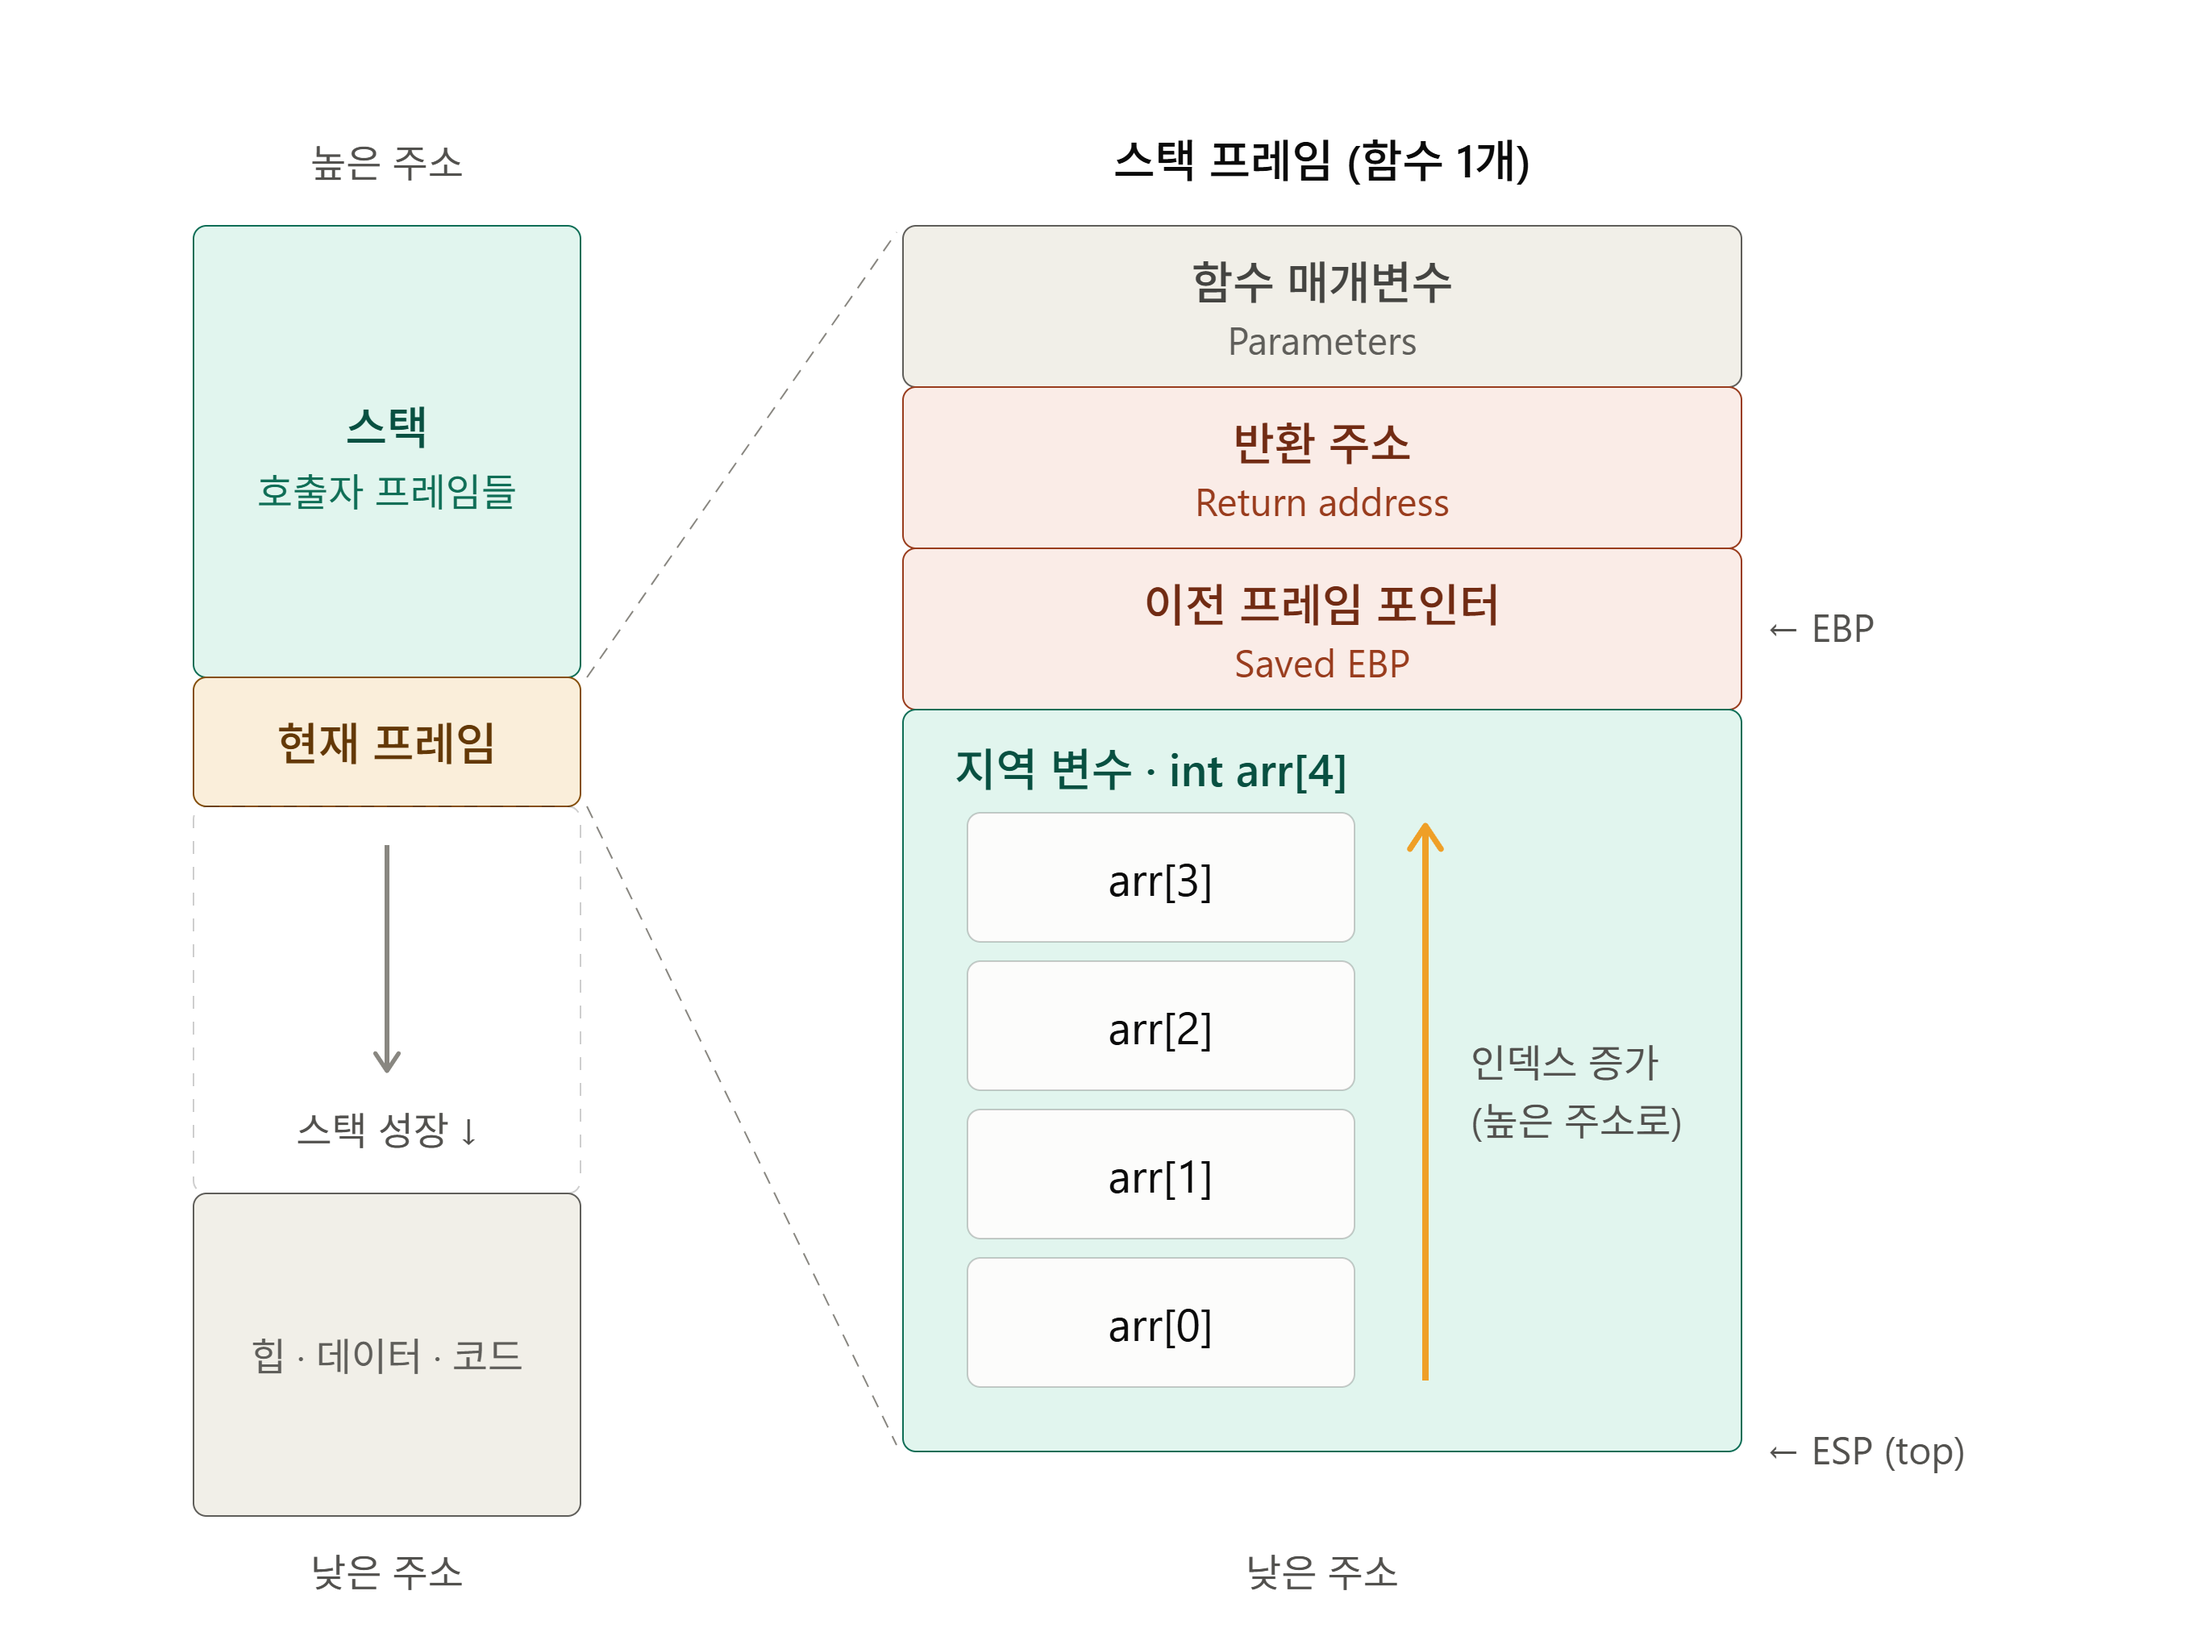
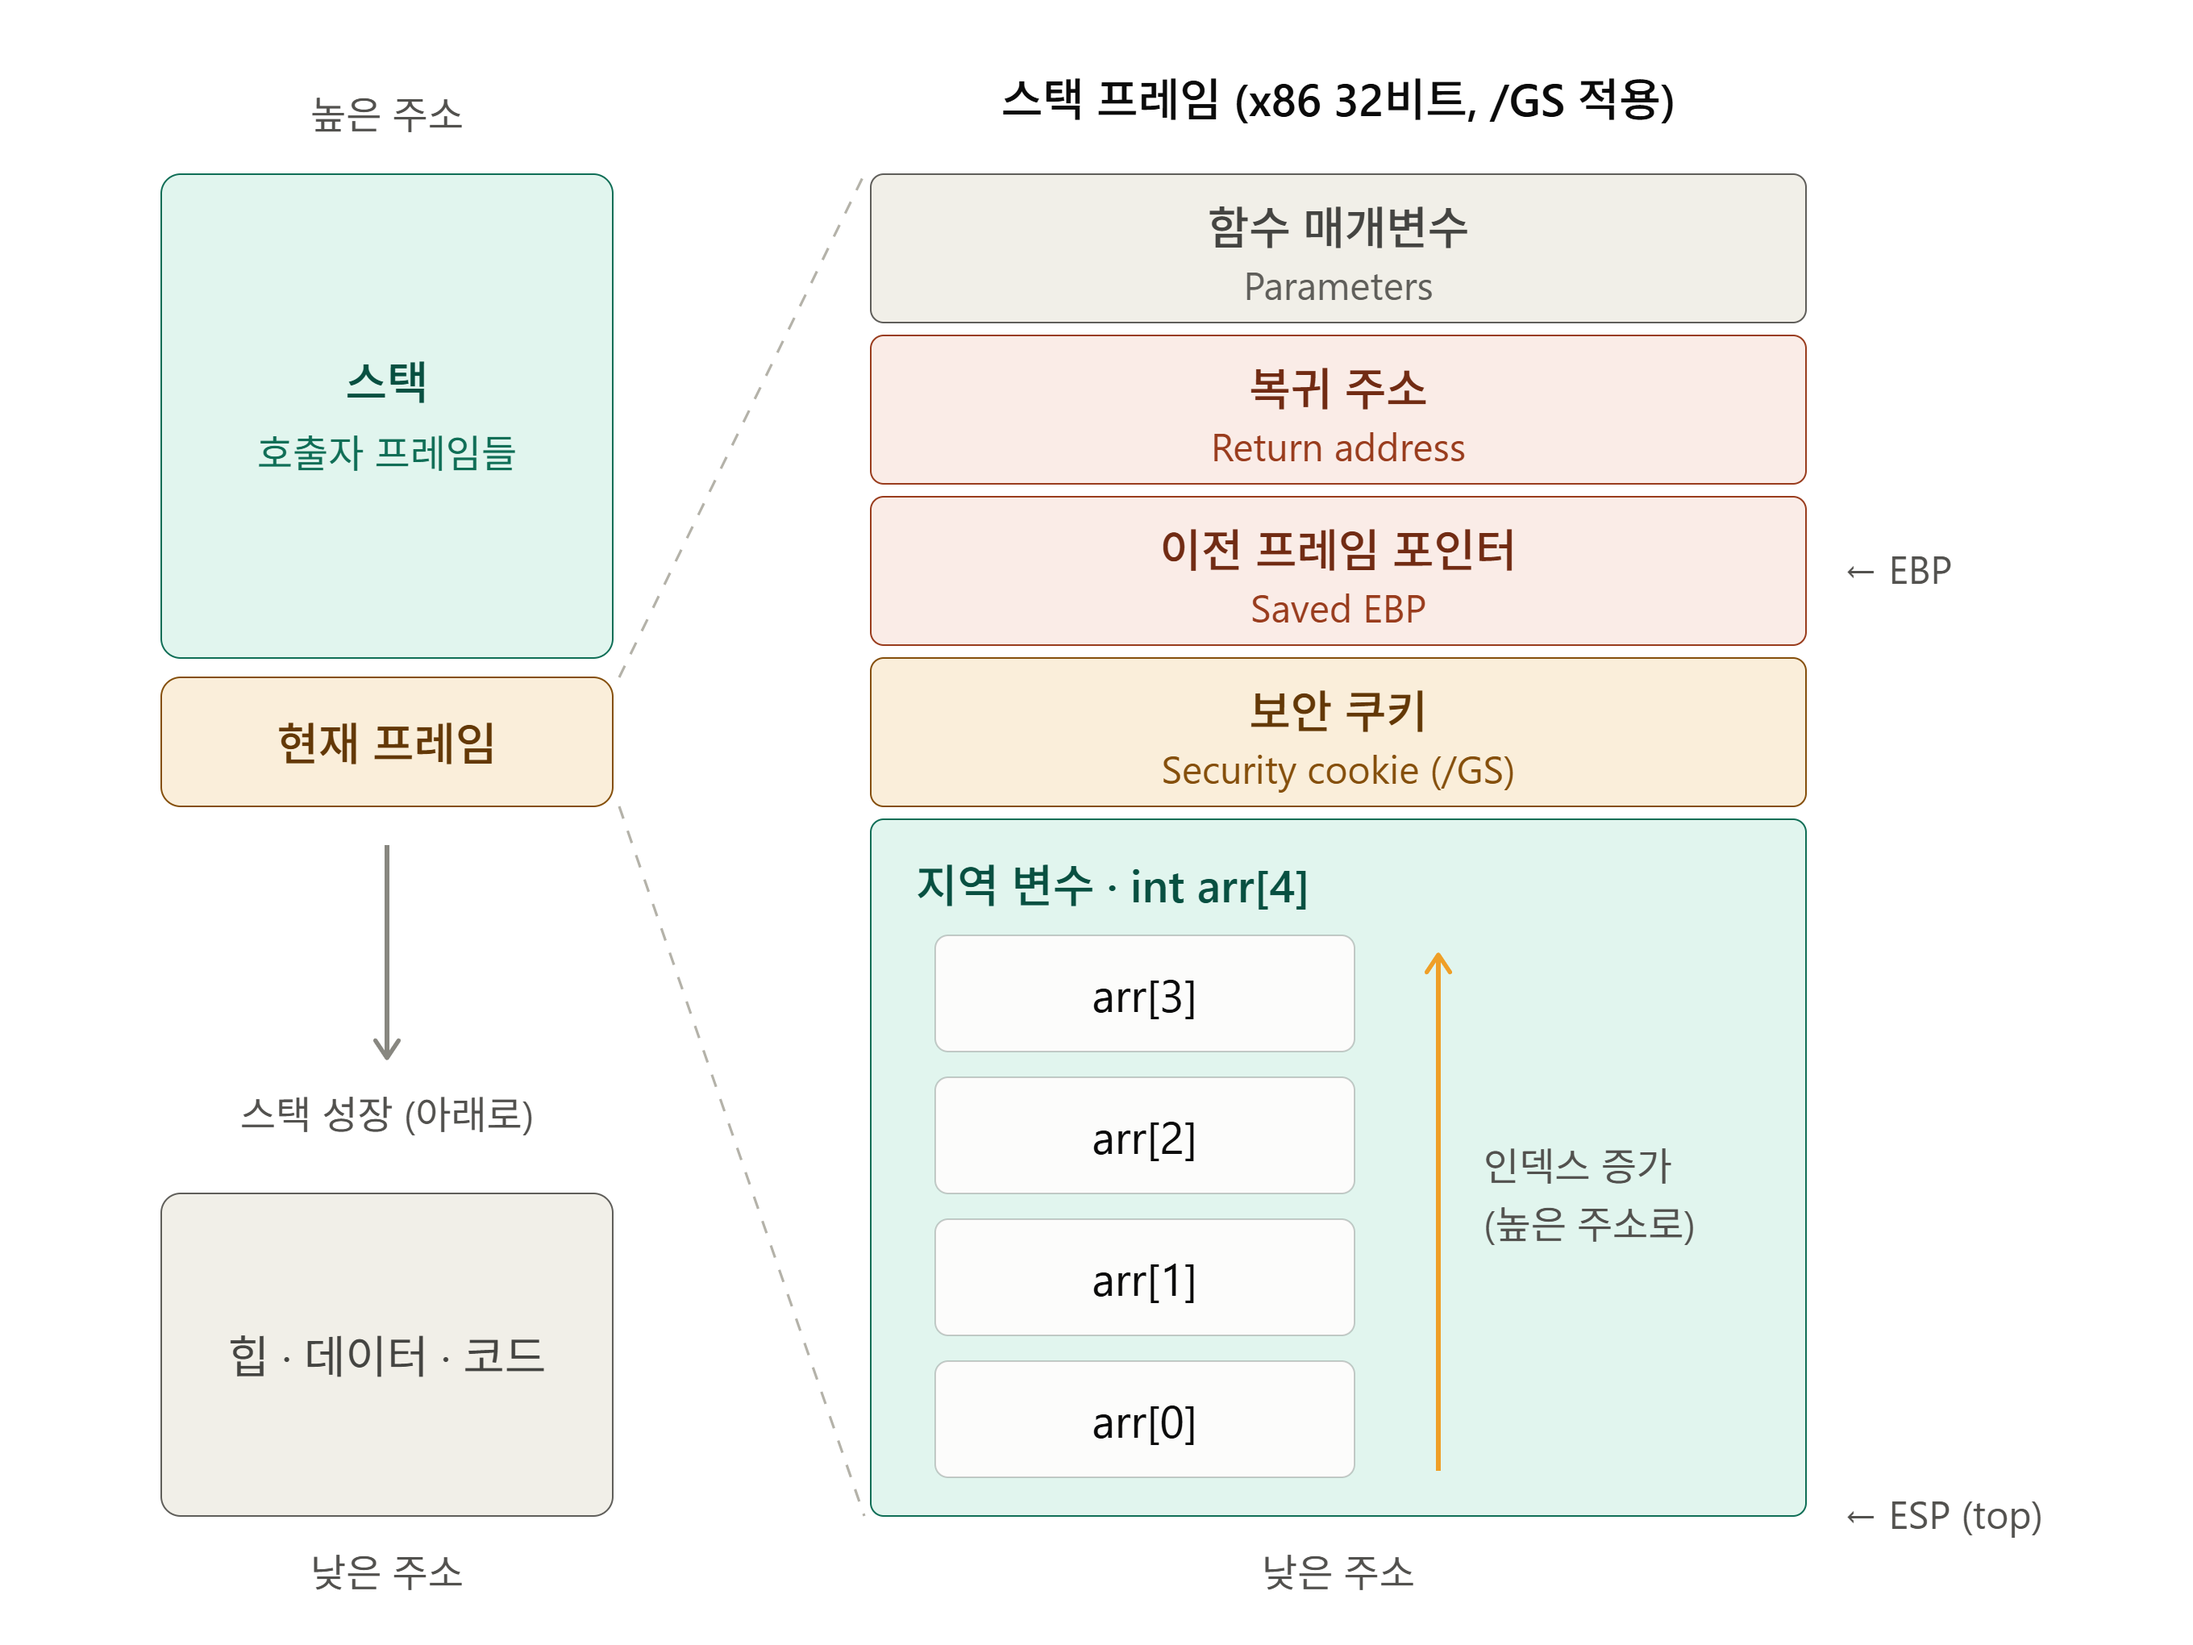
mod stack overflow, unpublish posts

diff --git a/_posts/2026-09-26-Stack Overflow vs Stack Buffer Overflow.md b/_posts/2026-09-26-Stack Overflow vs Stack Buffer Overflow.md
@@ -3,7 +3,7 @@ title: Stack Overflow vs Stack Buffer Overflow
 date: 2026-09-26 13:44 +0900
 category: [Computer Science]
 tags: ["computer science"]
-description: 자라나는 방향의 차이
+description: 넘는 경계의 차이와 방향이 만드는 피해 범위
 image:
   path: /assets/images/2026-09-26-overflow/2.png
 math: true
@@ -13,22 +13,28 @@ math: true
 
 ## 요약
 
-|               | 스택 오버플로           | 스택 버퍼 오버플로                |
-| ------------- | ----------------------- | --------------------------------- |
-| 무엇이 넘치나 | 스택 전체               | 스택 위의 배열 하나               |
-| 넘치는 방향   | 아래 (낮은 주소)        | 위 (높은 주소)                    |
-| 원인          | 깊은 재귀, 큰 지역 변수 | 범위 밖 쓰기, 길이 미확인 복사    |
-| 결과          | OS가 즉시 감지해 크래시 | 조용히 데이터 손상, 나중에 크래시 |
-| 보안 문제     | 거의 없음               | 대표적인 취약점                   |
+|               | 스택 오버플로                              | 스택 버퍼 오버플로                      |
+| ------------- | ------------------------------------------ | --------------------------------------- |
+| 무엇이 넘치나 | 스택 전체                                  | 스택 위의 배열 하나                     |
+| 넘치는 방향   | 아래 (SP 성장 방향)                        | 주로 위 (쓰기 방향, 음수 인덱스는 아래) |
+| 원인          | 깊은 재귀, 큰 지역 변수                    | 범위 밖 쓰기, 길이 미확인 복사          |
+| 결과          | OS가 즉시 감지해 크래시                    | 조용히 데이터 손상, 나중에 크래시       |
+| 보안 문제     | 가드에 걸리면 크래시, 건너뛰면 Stack Clash | 대표적인 취약점                         |
 
 ## 방향
 
 ![](/assets/images/2026-09-26-overflow/2.png)
 
-- 스택은 높은 주소 → 낮은 주소로 자람
-- 배열 인덱스는 낮은 주소 → 높은 주소로 증가
-- **이 방향 차이가 두 문제를 가르는 핵심**
+- 스택은 높은 주소 → 낮은 주소로 자람 (x86/x64/ARM 등 주요 ABI 기준, C++ 표준이 정하는 것은 아님)[^1]
+- 배열 인덱스는 낮은 주소 → 높은 주소로 증가 (C++ 표준이 보장)[^2]
+- 두 "방향"은 서로 다른 축
+  - 스택: SP가 움직이는 방향 (할당)
+  - 배열: 쓰기 주소가 움직이는 방향 (인덱스)
+- **두 문제는 넘는 경계로 구분, 방향 차이는 피해 범위를 설명**[^3]
+  - 버퍼 쓰기는 위로 → 이미 쌓인 복귀 주소를 덮음
+  - 가드 페이지는 아래 → 위로 가는 쓰기를 못 막음
 
+![](/assets/images/2026-09-26-overflow/4.png)
 
 ## 스택 오버플로
 
@@ -41,20 +47,24 @@ math: true
 
 ### 가드 페이지
 
-- Windows: 커밋된 영역 바로 아래에 붙어서 스택과 함께 이동
+- Windows: 커밋된 영역 바로 아래에 붙어서 스택과 함께 이동[^4]
   - 최대 크기만큼 reserve, 필요한 만큼만 commit
-  - 가드 페이지 접근 시 OS가 커밋하고 가드를 한 칸 아래로 옮김
+  - 가드 페이지 접근 시 OS가 커밋하고 가드를 한 칸 아래로 옮김[^5]
   - 예약 영역 끝에서 더 못 옮기면 스택 오버플로
-- Linux pthread 스택: 맨 아래 경계에 고정, 접근 시 `SIGSEGV`
-- 큰 지역 배열은 가드 페이지를 건너뛸 수 있어서 컴파일러가 스택 프로브(MSVC `__chkstk`)를 삽입
+- Linux pthread 스택: 맨 아래 경계에 고정, 접근 시 `SIGSEGV`[^6]
+- 큰 지역 배열은 가드 페이지를 건너뛸 수 있어서 컴파일러가 스택 프로브(MSVC `_chkstk`, x86 4KB / x64 8KB 초과 시)를 삽입[^7]
+  - 건너뛰면 가드 아래의 다른 메모리(힙 등)를 스택으로 쓰게 됨 → Stack Clash 공격
+  - GCC는 `-fstack-clash-protection`으로 한 페이지씩 할당·접근해 건너뛰기를 막음[^8]
 
 ## 스택 버퍼 오버플로
 
 - 스택 위 **배열 하나**의 범위를 넘어 쓰는 것
 - 스택 공간이 남아 있어도 발생
-- 배열은 위로 넘치므로 이미 쌓인 데이터를 덮음
-  - 저장된 레지스터 → 복귀 주소 → 호출한 함수의 프레임 순
+- 배열 끝을 넘는 쓰기는 위로 가므로 이미 쌓인 데이터를 덮음
+  - (`/GS` 사용 시) 보안 쿠키 → 저장된 레지스터 → 복귀 주소 → 호출한 함수의 프레임 순[^9]
+  - 같은 프레임의 다른 지역 변수 배치는 컴파일러 재량
   - 가드 페이지는 반대쪽이라 막지 못함
+- 음수 인덱스 등 시작 앞 쓰기(underwrite)는 아래로 감[^3]
 
 ![](/assets/images/2026-09-26-overflow/3.png)
 
@@ -63,7 +73,8 @@ math: true
   - `strcpy`, `sprintf`, `gets` 등 길이 미확인 함수
   - `memcpy` 크기 오류
 - 증상
-  - 쓰는 순간이 아니라 **return 시점**에 크래시
+  - 쓰는 순간이 아니라 주로 **return 시점**에 크래시 (`/GS` 검사가 함수 종료 시 수행)[^9]
+  - 덮인 지역 변수·포인터를 return 전에 쓰면 더 일찍 크래시
   - 콜스택이 깨져 보임
   - VS Debug 빌드의 "Stack around the variable ... was corrupted"
 - 방어
@@ -84,27 +95,42 @@ math: true
 
 ### int 배열
 
-- 타입 무관, 스택의 모든 배열에서 발생 (int는 한 칸당 4바이트 손상)
+- 타입 무관, 스택의 모든 배열에서 발생 (int가 4바이트인 환경에서 한 칸당 4바이트 손상)
 - 입력받은 개수만큼 배열에 넣는 코드에서 흔한 실수
 - 함수 매개변수 `int a[]`는 실제로 포인터
-  - `sizeof(a)`는 포인터 크기(8)
+  - `sizeof(a)`는 포인터 크기 (64비트 8, 32비트 4)
   - 길이를 몰라 범위 초과가 쉬움
   - C는 길이를 함께 전달, C++은 `std::array`, `std::vector`, `std::span`
 
 ## 오류 코드
 
-- 둘 다 C++ 예외가 아님 → `try/catch`로 못 잡음
+- 둘 다 C++ 예외가 아님 → 기본(`/EHsc`)에서는 `try/catch`로 못 잡음
+  - `/EHa`면 `catch(...)`가 SEH 예외도 받지만 복구는 여전히 어려움[^10]
 - Windows
   - 스택 오버플로: `0xC00000FD`
   - `/GS` 감지 스택 버퍼 오버플로: `0xC0000409`
   - 감지 못 하고 망가진 주소로 점프: 보통 `0xC0000005`
   - `0xC00000FD`는 SEH로 잡을 수는 있으나 복구가 어려움
-  - `0xC0000409`는 SEH도 거치지 않고 즉시 종료, `__fastfail` 공용 코드라 다른 원인일 수도 있음
+  - `0xC0000409`는 SEH도 거치지 않고 즉시 종료, `__fastfail` 공용 코드라 다른 원인일 수도 있음[^11]
   - "Run-Time Check Failure #2"는 예외 코드가 아니라 `/RTC` 메시지
 
 ## 정리
 
-- 스택 오버플로: 스택 전체가 아래로 넘침, 재귀·큰 지역 변수, 가드 페이지로 즉시 감지
-- 스택 버퍼 오버플로: 배열 하나가 위로 넘침, 복귀 주소 손상, 보안 취약점
-- 핵심은 **스택은 아래로, 배열 인덱스는 위로**
-- 전역 배열은 스택이 아니므로 어느 쪽도 아님
+- 스택 오버플로: 스택 전체가 아래로 넘침, 재귀·큰 지역 변수, 가드 페이지로 즉시 감지 (건너뛰면 Stack Clash)
+- 스택 버퍼 오버플로: 배열 하나가 주로 위로 넘침, 복귀 주소 손상, 보안 취약점
+- 구분은 **넘는 경계**, 피해 범위는 **방향** (스택은 아래로, 배열 인덱스는 위로)
+- 전역 배열은 스택이 아니므로 두 "스택" 문제는 아님, 단 범위 밖 쓰기는 전역 버퍼 오버플로 (인접 전역 데이터 손상)[^12]
+
+
+[^1]: [sigaltstack(2) — Linux manual page](https://man7.org/linux/man-pages/man2/sigaltstack.2.html)
+[^2]: [Comparison operators — cppreference.com](https://en.cppreference.com/w/cpp/language/operator_comparison)
+[^3]: [CWE-121: Stack-based Buffer Overflow — MITRE](https://cwe.mitre.org/data/definitions/121.html)
+[^4]: [Thread Stack Size — Microsoft Learn](https://learn.microsoft.com/en-us/windows/win32/procthread/thread-stack-size)
+[^5]: [Creating Guard Pages — Microsoft Learn](https://learn.microsoft.com/en-us/windows/win32/memory/creating-guard-pages)
+[^6]: [pthread_attr_setguardsize(3) — Linux manual page](https://man7.org/linux/man-pages/man3/pthread_attr_setguardsize.3.html)
+[^7]: [`_chkstk` Routine — Microsoft Learn](https://learn.microsoft.com/en-us/windows/win32/devnotes/-win32-chkstk)
+[^8]: [Instrumentation Options (-fstack-clash-protection) — GCC](https://gcc.gnu.org/onlinedocs/gcc/Instrumentation-Options.html)
+[^9]: [/GS (Buffer Security Check) — Microsoft Learn](https://learn.microsoft.com/en-us/cpp/build/reference/gs-buffer-security-check)
+[^10]: [/EH (Exception handling model) — Microsoft Learn](https://learn.microsoft.com/en-us/cpp/build/reference/eh-exception-handling-model)
+[^11]: [`__fastfail` — Microsoft Learn](https://learn.microsoft.com/en-us/cpp/intrinsics/fastfail)
+[^12]: [AddressSanitizer — Clang](https://clang.llvm.org/docs/AddressSanitizer.html)

diff --git a/_posts/2025-09-02-[C++] 순수 가상 함수와 Vtable.md b/_posts/2025-09-02-[C++] 순수 가상 함수와 Vtable.md
@@ -6,6 +6,7 @@ tags: ["cpp"]
 image:
   path: /assets/images/old/8a744e4e-fa23-4f56-a8d9-b52b8b4aa5e8-image.png
 categories: [CPP]
+published: false
 ---
 https://velog.io/@dev_sensational/C-VTable%EA%B3%BC-%EB%8B%A4%ED%98%95%EC%84%B1
 
